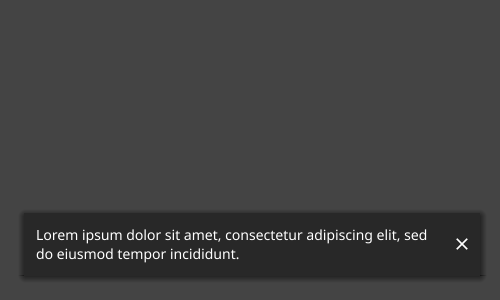
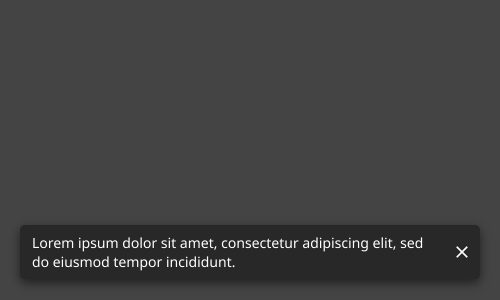
chore: upgrade to Fyne 2.8

Changed region(s): [[0.03, 0.69, 0.96, 0.9], [0.9, 0.78, 0.93, 0.87]]

diff --git a/internal/app/ui/core/core_internal_test.go b/internal/app/ui/core/core_internal_test.go
@@ -5,6 +5,7 @@ import (
 	"net/http"
 	"net/url"
 	"testing"
+	"time"
 
 	"fyne.io/fyne/v2"
 	"fyne.io/fyne/v2/driver/desktop"
@@ -116,6 +117,18 @@ func (a *AppFake) SetSystemTrayIcon(_ fyne.Resource) {
 
 func (a *AppFake) SetSystemTrayWindow(fyne.Window) {
 	// noop
+}
+
+func (a *AppFake) Cache() fyne.Cache {
+	return a.app.Cache()
+}
+
+func (a *AppFake) ScheduleNotification(n *fyne.Notification, deliverAt time.Time) (*fyne.ScheduledNotification, error) {
+	panic("not implemented")
+}
+
+func (a *AppFake) CancelScheduledNotification(id string) error {
+	return nil
 }
 
 var _ fyne.App = (*AppFake)(nil)

diff --git a/internal/xwidget/snackbar.go b/internal/xwidget/snackbar.go
@@ -8,6 +8,7 @@ import (
 
 	"fyne.io/fyne/v2"
 	"fyne.io/fyne/v2/container"
+	"fyne.io/fyne/v2/layout"
 	"fyne.io/fyne/v2/theme"
 	"fyne.io/fyne/v2/widget"
 	kxwidget "github.com/ErikKalkoken/fyne-kx/widget"
@@ -53,7 +54,12 @@ func NewSnackbar(win fyne.Window) *Snackbar {
 	sb.button = kxwidget.NewIconButton(theme.WindowCloseIcon(), func() {
 		sb.hideC <- struct{}{}
 	})
-	sb.popup = widget.NewPopUp(container.NewBorder(nil, nil, nil, sb.button, sb.label), win.Canvas())
+	p := theme.Padding()
+	content := container.New(
+		layout.NewCustomPaddedLayout(0, 0, p, p),
+		container.NewBorder(nil, nil, nil, sb.button, sb.label),
+	)
+	sb.popup = widget.NewPopUp(content, win.Canvas())
 	return sb
 }
 